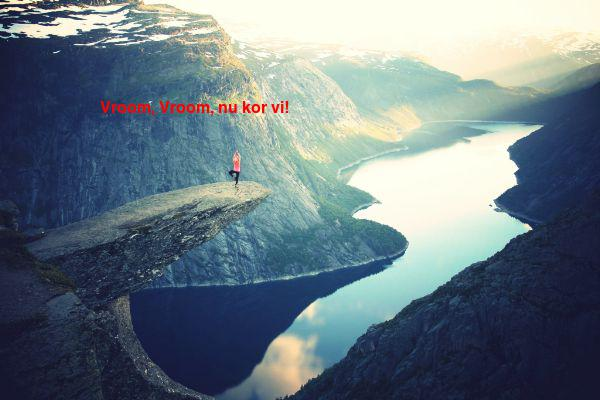
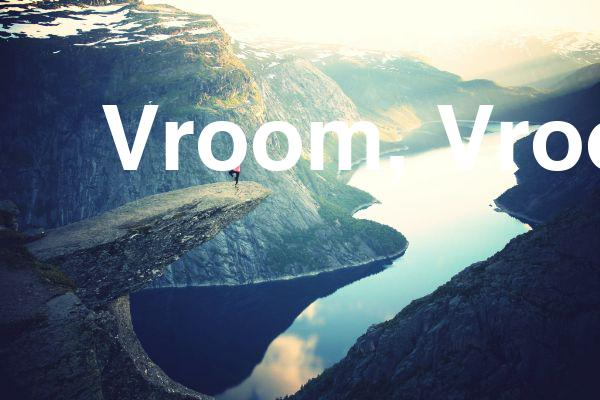
Fixed some text issues

Changed region(s): [[0.15, 0.24, 0.69, 0.45], [0.72, 0.24, 1.0, 0.45]]

diff --git a/textGenerator/memeTextAdder.py b/textGenerator/memeTextAdder.py
@@ -5,8 +5,8 @@ from PIL import ImageDraw
 img = Image.open("images/test.jpg")
 draw = ImageDraw.Draw(img)
 
-font = ImageFont.truetype("Fonts/HelveticaBold.ttf", 16)
+font = ImageFont.truetype("Fonts/HelveticaBold.ttf", 90)
 
-draw.text((100,100), "Vroom, Vroom, nu kor vi!",(255,0,0),font=font)
+draw.text((100,100), "Vroom, Vroom, nu kor vi!",(255,255,255),font=font)
 img.save("dankMoppeMeme.jpg")
 
